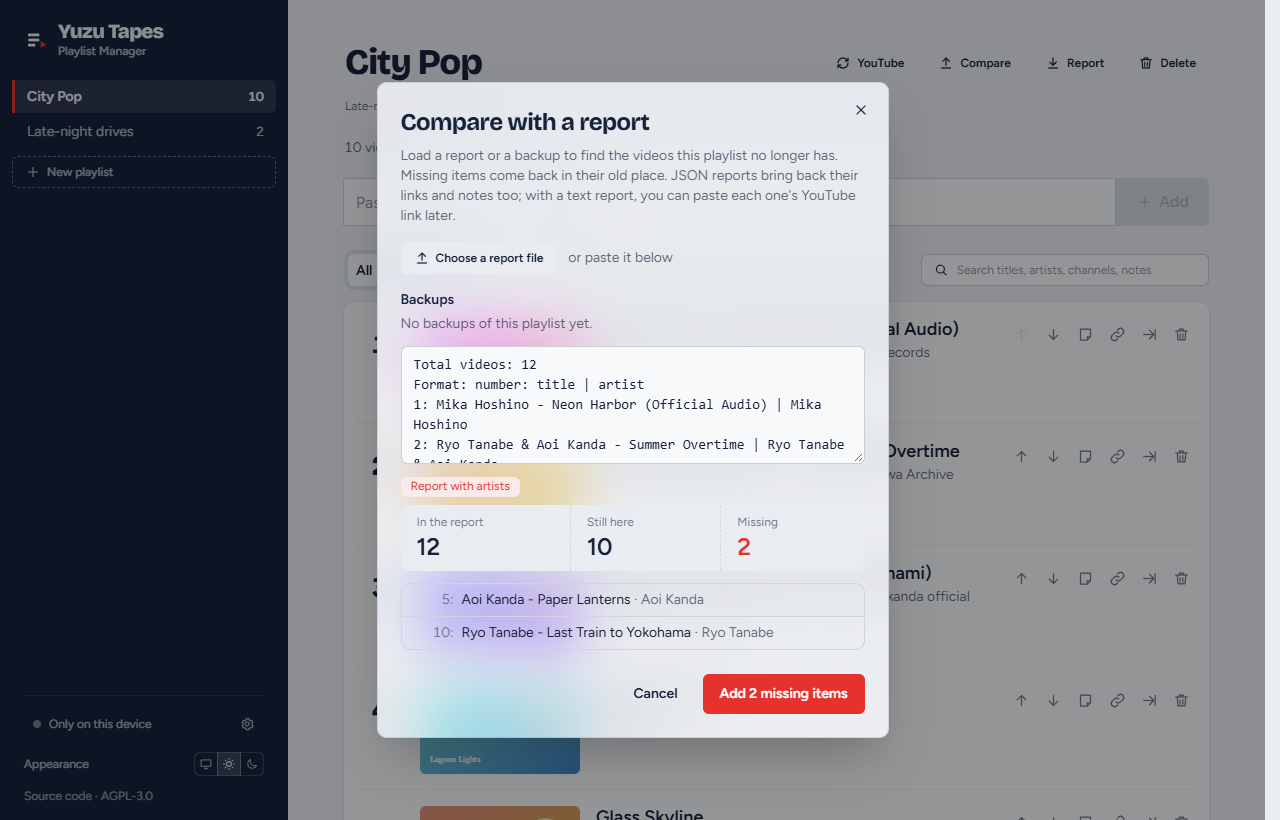
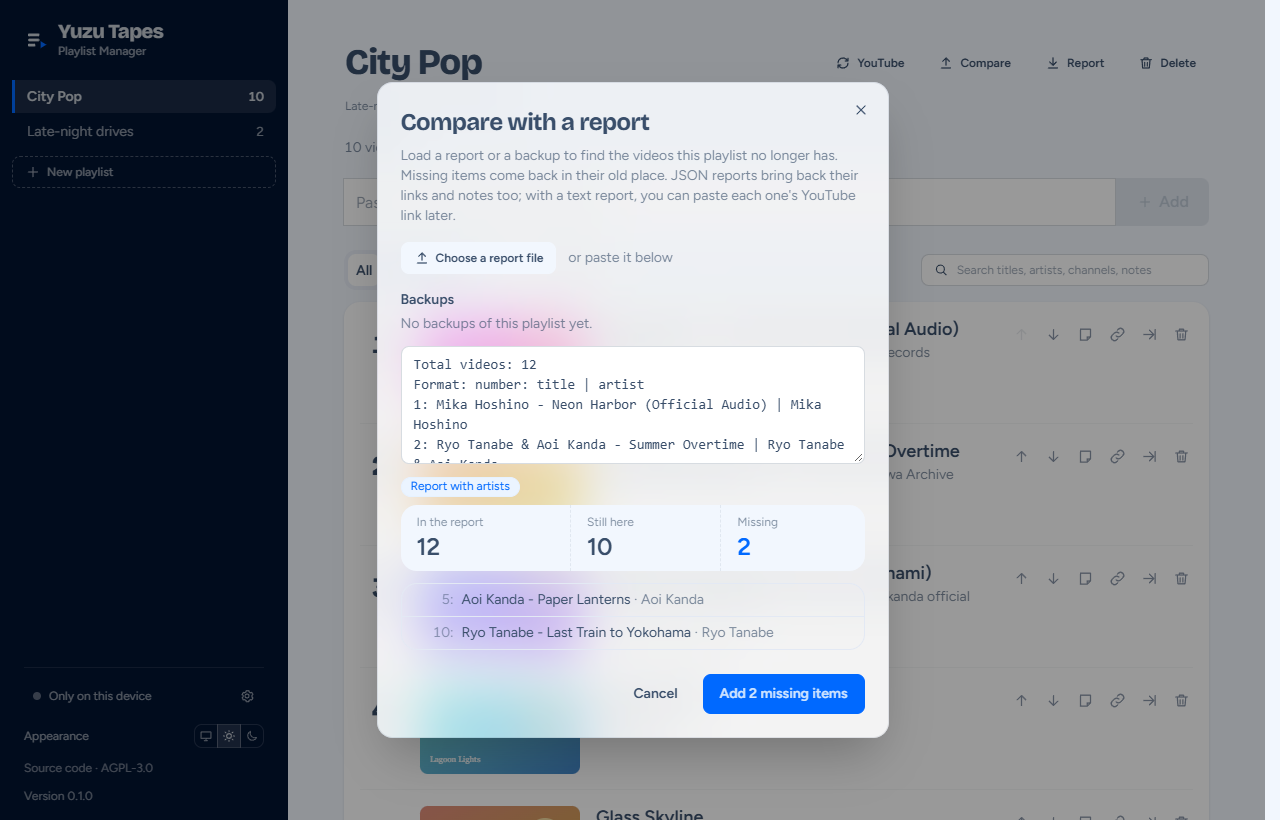
Use daisyUI's winter and sunset as the light and dark themes
The light theme now uses winter's colours and shapes, and the dark one
sunset's, keeping the names light and dark so the saved choice, the
switch and theme-boot.js work as before. index.html's page colours and
theme-color follow, so a reload doesn't flash. The README screenshots
are retaken with the new themes.

diff --git a/web-react/src/styles/tailwind.css b/web-react/src/styles/tailwind.css
@@ -4,35 +4,36 @@
     themes: false;
 }
 
-/* Light theme: cool paper, navy ink, a red "tally light" for actions. */
+/* Light theme: daisyUI's winter (5.7), cool blue on white. The themes keep the names light and dark,
+   which the saved choice, theme-boot.js and index.html use. */
 @plugin 'daisyui/theme' {
     name: 'light';
     default: true;
     prefersdark: false;
     color-scheme: light;
-    --color-base-100: #f7f9fb;
-    --color-base-200: #e9edf2;
-    --color-base-300: #cdd5e0;
-    --color-base-content: #16213a;
-    --color-primary: #e5322d;
-    --color-primary-content: #ffffff;
-    --color-secondary: #3d6fd6;
-    --color-secondary-content: #ffffff;
-    --color-accent: #2f7d6d;
-    --color-accent-content: #ffffff;
-    --color-neutral: #16213a;
-    --color-neutral-content: #e7ecf5;
-    --color-info: #3d6fd6;
-    --color-info-content: #ffffff;
-    --color-success: #2f7d6d;
-    --color-success-content: #ffffff;
-    --color-warning: #d9982c;
-    --color-warning-content: #1f1300;
-    --color-error: #d0312c;
-    --color-error-content: #ffffff;
-    --radius-selector: 0.375rem;
-    --radius-field: 0.375rem;
-    --radius-box: 0.625rem;
+    --color-base-100: oklch(100% 0 0);
+    --color-base-200: oklch(97.466% 0.011 259.822);
+    --color-base-300: oklch(93.268% 0.016 262.751);
+    --color-base-content: oklch(41.886% 0.053 255.824);
+    --color-primary: oklch(56.86% 0.255 257.57);
+    --color-primary-content: oklch(91.372% 0.051 257.57);
+    --color-secondary: oklch(42.551% 0.161 282.339);
+    --color-secondary-content: oklch(88.51% 0.032 282.339);
+    --color-accent: oklch(59.939% 0.191 335.171);
+    --color-accent-content: oklch(11.988% 0.038 335.171);
+    --color-neutral: oklch(19.616% 0.063 257.651);
+    --color-neutral-content: oklch(83.923% 0.012 257.651);
+    --color-info: oklch(88.127% 0.085 214.515);
+    --color-info-content: oklch(17.625% 0.017 214.515);
+    --color-success: oklch(80.494% 0.077 197.823);
+    --color-success-content: oklch(16.098% 0.015 197.823);
+    --color-warning: oklch(89.172% 0.045 71.47);
+    --color-warning-content: oklch(17.834% 0.009 71.47);
+    --color-error: oklch(73.092% 0.11 20.076);
+    --color-error-content: oklch(14.618% 0.022 20.076);
+    --radius-selector: 1rem;
+    --radius-field: 0.5rem;
+    --radius-box: 1rem;
     --size-selector: 0.25rem;
     --size-field: 0.25rem;
     --border: 1px;
@@ -40,35 +41,36 @@
     --noise: 0;
 }
 
-/* Dark theme, used automatically when the system prefers dark. */
+/* Dark theme: daisyUI's sunset (5.7), dark teal with an orange primary. Used automatically when the
+   system prefers dark. */
 @plugin 'daisyui/theme' {
     name: 'dark';
     default: false;
     prefersdark: true;
     color-scheme: dark;
-    --color-base-100: #172036;
-    --color-base-200: #0f1626;
-    --color-base-300: #2a3654;
-    --color-base-content: #e7ecf5;
-    --color-primary: #ff5a4f;
-    --color-primary-content: #1a0503;
-    --color-secondary: #7aa2ff;
-    --color-secondary-content: #0a1330;
-    --color-accent: #4fb59d;
-    --color-accent-content: #06201a;
-    --color-neutral: #0a101c;
-    --color-neutral-content: #e7ecf5;
-    --color-info: #7aa2ff;
-    --color-info-content: #0a1330;
-    --color-success: #4fb59d;
-    --color-success-content: #06201a;
-    --color-warning: #e8b04e;
-    --color-warning-content: #1f1300;
-    --color-error: #ff6b61;
-    --color-error-content: #1a0503;
-    --radius-selector: 0.375rem;
-    --radius-field: 0.375rem;
-    --radius-box: 0.625rem;
+    --color-base-100: oklch(22% 0.019 237.69);
+    --color-base-200: oklch(20% 0.019 237.69);
+    --color-base-300: oklch(18% 0.019 237.69);
+    --color-base-content: oklch(77.383% 0.043 245.096);
+    --color-primary: oklch(74.703% 0.158 39.947);
+    --color-primary-content: oklch(14.94% 0.031 39.947);
+    --color-secondary: oklch(72.537% 0.177 2.72);
+    --color-secondary-content: oklch(14.507% 0.035 2.72);
+    --color-accent: oklch(71.294% 0.166 299.844);
+    --color-accent-content: oklch(14.258% 0.033 299.844);
+    --color-neutral: oklch(26% 0.019 237.69);
+    --color-neutral-content: oklch(70% 0.019 237.69);
+    --color-info: oklch(85.559% 0.085 206.015);
+    --color-info-content: oklch(17.111% 0.017 206.015);
+    --color-success: oklch(85.56% 0.085 144.778);
+    --color-success-content: oklch(17.112% 0.017 144.778);
+    --color-warning: oklch(85.569% 0.084 74.427);
+    --color-warning-content: oklch(17.113% 0.016 74.427);
+    --color-error: oklch(85.511% 0.078 16.886);
+    --color-error-content: oklch(17.102% 0.015 16.886);
+    --radius-selector: 1rem;
+    --radius-field: 0.5rem;
+    --radius-box: 1rem;
     --size-selector: 0.25rem;
     --size-field: 0.25rem;
     --border: 1px;

diff --git a/web-react/index.html b/web-react/index.html
@@ -6,19 +6,19 @@
     <meta name="color-scheme" content="light dark" />
     <style>
       html {
-        background-color: #e9edf2;
+        background-color: #f2f7fe;
       }
       html[data-theme='dark'] {
         color-scheme: dark;
-        background-color: #0f1626;
+        background-color: #0e171e;
       }
       html[data-theme='light'] {
         color-scheme: light;
-        background-color: #e9edf2;
+        background-color: #f2f7fe;
       }
       @media (prefers-color-scheme: dark) {
         html:not([data-theme]) {
-          background-color: #0f1626;
+          background-color: #0e171e;
         }
       }
       body {
@@ -39,7 +39,7 @@
       content="Your own playlists of music and videos, in order, offline-first, synced across devices."
     />
     <meta name="application-name" content="Yuzu Tapes Playlist Manager" />
-    <meta name="theme-color" content="#16213a" />
+    <meta name="theme-color" content="#021431" />
     <link rel="icon" href="/favicon.svg" type="image/svg+xml" />
     <link rel="preconnect" href="https://fonts.googleapis.com" />
     <link rel="preconnect" href="https://fonts.gstatic.com" crossorigin />
